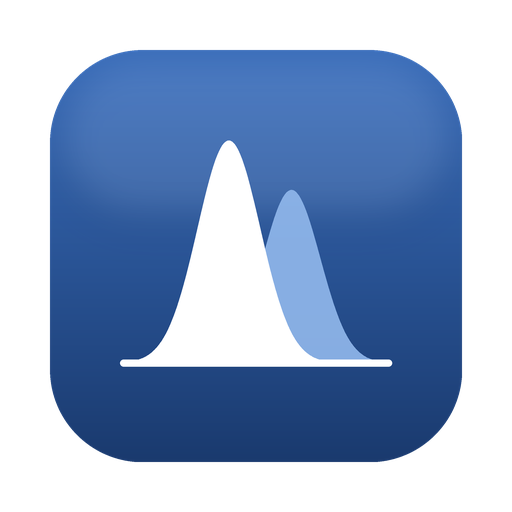
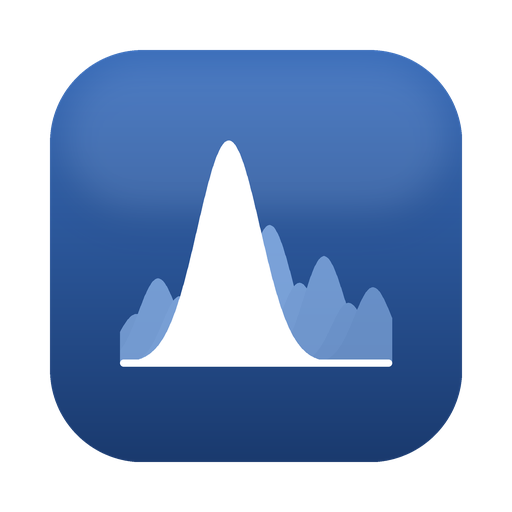
Two marks for the suite: the chromatogram behind the peak for OpenDIAL, the two peaks for OpenQuant
The icon generator draws either variant and exports every form of one — PNGs by size, the macOS
iconset and .icns, the Windows .ico, an SVG of the same geometry. OpenDIAL's mark becomes the
untargeted one: the same rounded square, gradient, white peak and baseline, with a skyline of
smaller peaks behind, the whole run rather than one analyte. The two co-eluting peaks, the
deconvolution of a known compound, go to OpenQuant.

Changed region(s): [[0.5, 0.375, 0.7812, 0.7188], [0.2188, 0.5312, 0.375, 0.7188]]

diff --git a/opendial/tools/make_icon.py b/opendial/tools/make_icon.py
@@ -1,15 +1,25 @@
 #!/usr/bin/env python3
-"""Draws the OpenDIAL application icon (macOS .icns / PNG) from the OpenQuant palette.
+"""Draws the suite's application icons (PNG, macOS .iconset/.icns, Windows .ico, SVG).
 
-The mark is two co-eluting chromatographic peaks, the rear one showing through the front
-one: the deconvolution that gives OpenDIAL its name. Colours are the shared suite tokens
-(accent #234b8c, light accent #6f9be0).
+Two marks share one identity — the rounded square, the blue gradient, the white chromatographic
+peak on a baseline — and differ in what stands behind the peak:
 
-    python3 tools/make_icon.py --out docs/images/icon.png [--size 1024]
+  targeted     one co-eluting peak showing through the front one: the deconvolution of a known
+               analyte. OpenQuant's mark, and OpenDIAL's original.
+  untargeted   a whole chromatogram behind the front peak, a skyline of smaller peaks across the
+               baseline: everything the run contains, not one thing looked for. OpenDIAL's mark.
+
+    python3 tools/make_icon.py --out icon.png [--size 1024] [--variant untargeted|targeted]
+    python3 tools/make_icon.py --export DIR --variant targeted     # every size, .iconset, .icns, .ico, .svg
+
+Colours are the shared suite tokens (accent #234b8c, light accent #6f9be0).
 """
 import argparse
 import math
 import os
+import shutil
+import subprocess
+import sys
 
 from PIL import Image, ImageDraw, ImageFilter
 
@@ -20,28 +30,51 @@ WHITE = (255, 255, 255)
 
 SS = 4  # supersampling factor
 
+# the skyline of the untargeted mark: (position along the span, height as a share of the front
+# peak's, width as a share of the front peak's sigma), left to right — a real-looking chromatogram
+# with the front peak standing out of it, and nothing taller than the front peak
+SKYLINE = [
+    (0.06, 0.22, 0.55), (0.14, 0.38, 0.62), (0.22, 0.30, 0.55), (0.30, 0.52, 0.65),
+    (0.55, 0.62, 0.72), (0.66, 0.36, 0.60), (0.75, 0.48, 0.65), (0.84, 0.27, 0.55), (0.93, 0.34, 0.60),
+]
+FRONT_AT = 0.40   # where the front peak stands, as a share of the span
+
+
+def gaussian_points(cx, sigma, height, baseline, left, right, steps=512):
+    pts = []
+    for i in range(steps + 1):
+        x = left + (right - left) * i / steps
+        y = baseline - height * math.exp(-((x - cx) ** 2) / (2.0 * sigma ** 2))
+        pts.append((x, y))
+    return pts
+
 
 def gaussian_band(draw, cx, sigma, height, baseline, left, right, colour, alpha):
     """Fills a gaussian peak between `left` and `right` on the given baseline."""
-    pts = []
-    step = max(1, (right - left) // 512)
-    for x in range(int(left), int(right) + 1, step):
-        y = baseline - height * math.exp(-((x - cx) ** 2) / (2.0 * sigma ** 2))
-        pts.append((x, y))
+    pts = gaussian_points(cx, sigma, height, baseline, left, right)
     pts.append((right, baseline))
     pts.append((left, baseline))
     draw.polygon(pts, fill=colour + (alpha,))
 
 
-def render(size: int) -> Image.Image:
-    s = size * SS
-    img = Image.new("RGBA", (s, s), (0, 0, 0, 0))
-
-    # macOS icon grid: the rounded square covers ~80 % of the canvas, centred.
+def geometry(s):
+    """The squircle and the mark's frame for a canvas of `s` pixels."""
     margin = int(s * 0.098)
     box = (margin, margin, s - margin, s - margin)
     side = box[2] - box[0]
     radius = int(side * 0.225)
+    left = box[0] + int(side * 0.17)
+    right = box[2] - int(side * 0.17)
+    baseline = box[1] + int(side * 0.76)
+    span = right - left
+    sigma = span * 0.115
+    return box, side, radius, left, right, baseline, span, sigma
+
+
+def render(size: int, variant: str = "untargeted") -> Image.Image:
+    s = size * SS
+    img = Image.new("RGBA", (s, s), (0, 0, 0, 0))
+    box, side, radius, left, right, baseline, span, sigma = geometry(s)
 
     # vertical gradient inside the squircle
     grad = Image.new("RGBA", (1, side), (0, 0, 0, 0))
@@ -68,18 +101,20 @@ def render(size: int) -> Image.Image:
     hi = hi.filter(ImageFilter.GaussianBlur(side * 0.05))
     img.alpha_composite(Image.composite(hi, Image.new("RGBA", (s, s), (0, 0, 0, 0)), mask))
 
-    # ---- the mark: two overlapping chromatographic peaks -------------------------------
+    # ---- the mark ------------------------------------------------------------------------
     art = Image.new("RGBA", (s, s), (0, 0, 0, 0))
     d = ImageDraw.Draw(art)
-    left = box[0] + int(side * 0.17)
-    right = box[2] - int(side * 0.17)
-    baseline = box[1] + int(side * 0.76)
-    span = right - left
-    sigma = span * 0.115
-
-    # rear (co-eluting) peak, then the front peak drawn over it
-    gaussian_band(d, left + span * 0.63, sigma * 0.92, side * 0.42, baseline, left, right, REAR_PEAK, 235)
-    gaussian_band(d, left + span * 0.40, sigma, side * 0.54, baseline, left, right, WHITE, 255)
+    front_height = side * 0.54
+    if variant == "targeted":
+        # the rear (co-eluting) peak, then the front peak drawn over it
+        gaussian_band(d, left + span * 0.63, sigma * 0.92, side * 0.42, baseline, left, right, REAR_PEAK, 235)
+    else:
+        # the skyline: every smaller peak of the run, faint towards the edges, the front peak's
+        # neighbours a little stronger so the whole reads as one chromatogram
+        for at, h, w in SKYLINE:
+            alpha = 150 + int(70 * (1 - abs(at - FRONT_AT) / 0.6))
+            gaussian_band(d, left + span * at, sigma * w, front_height * h, baseline, left, right, REAR_PEAK, max(120, min(235, alpha)))
+    gaussian_band(d, left + span * FRONT_AT, sigma, front_height, baseline, left, right, WHITE, 255)
 
     # baseline rule
     rule = max(2, int(side * 0.018))
@@ -90,14 +125,85 @@ def render(size: int) -> Image.Image:
     return img.resize((size, size), Image.LANCZOS)
 
 
+def svg(variant: str, size: int = 1024) -> str:
+    """The same mark as vector art: the gradient squircle, the peaks as paths, the baseline."""
+    box, side, radius, left, right, baseline, span, sigma = geometry(size)
+    front_height = side * 0.54
+
+    def path(cx, sg, h):
+        pts = gaussian_points(cx, sg, h, baseline, left, right, steps=160)
+        d = "M %.1f %.1f " % (left, baseline) + " ".join("L %.1f %.1f" % p for p in pts) + " L %.1f %.1f Z" % (right, baseline)
+        return d
+
+    rear = "#8fb6ea"
+    parts = [
+        '<svg xmlns="http://www.w3.org/2000/svg" viewBox="0 0 %d %d" width="%d" height="%d">' % (size, size, size, size),
+        "<defs>",
+        '<linearGradient id="g" x1="0" y1="0" x2="0" y2="1"><stop offset="0" stop-color="#3a6fbf"/><stop offset="1" stop-color="#1a3a6e"/></linearGradient>',
+        '<linearGradient id="hi" x1="0" y1="0" x2="0" y2="1"><stop offset="0" stop-color="#ffffff" stop-opacity="0.12"/><stop offset="1" stop-color="#ffffff" stop-opacity="0"/></linearGradient>',
+        '<clipPath id="c"><rect x="%d" y="%d" width="%d" height="%d" rx="%d"/></clipPath>' % (box[0], box[1], side, side, radius),
+        "</defs>",
+        '<rect x="%d" y="%d" width="%d" height="%d" rx="%d" fill="url(#g)"/>' % (box[0], box[1], side, side, radius),
+        '<rect x="%d" y="%d" width="%d" height="%d" rx="%d" fill="url(#hi)"/>' % (box[0], box[1], side, int(side * 0.5), radius),
+        '<g clip-path="url(#c)">',
+    ]
+    if variant == "targeted":
+        parts.append('<path d="%s" fill="%s" fill-opacity="0.92"/>' % (path(left + span * 0.63, sigma * 0.92, side * 0.42), rear))
+    else:
+        for at, h, w in SKYLINE:
+            alpha = 150 + int(70 * (1 - abs(at - FRONT_AT) / 0.6))
+            parts.append('<path d="%s" fill="%s" fill-opacity="%.2f"/>' % (path(left + span * at, sigma * w, front_height * h), rear, max(120, min(235, alpha)) / 255))
+    parts.append('<path d="%s" fill="#ffffff"/>' % path(left + span * FRONT_AT, sigma, front_height))
+    rule = max(2, int(side * 0.018))
+    parts.append('<rect x="%d" y="%.1f" width="%d" height="%d" rx="%.1f" fill="#ffffff"/>' % (left, baseline - rule / 2, right - left, rule, rule / 2))
+    parts.append("</g></svg>")
+    return "\n".join(parts)
+
+
+ICONSET = [(16, "16x16"), (32, "16x16@2x"), (32, "32x32"), (64, "32x32@2x"), (128, "128x128"), (256, "128x128@2x"),
+           (256, "256x256"), (512, "256x256@2x"), (512, "512x512"), (1024, "512x512@2x")]
+PNG_SIZES = [16, 32, 48, 64, 128, 256, 512, 1024]
+
+
+def export(folder: str, variant: str, name: str):
+    """Every form of one mark: PNGs by size, the macOS iconset and .icns, the Windows .ico, the SVG."""
+    os.makedirs(folder, exist_ok=True)
+    master = render(1024, variant)
+    png_dir = os.path.join(folder, "png")
+    os.makedirs(png_dir, exist_ok=True)
+    for size in PNG_SIZES:
+        (master if size == 1024 else master.resize((size, size), Image.LANCZOS)).save(os.path.join(png_dir, f"{name}-{size}.png"))
+    iconset = os.path.join(folder, f"{name}.iconset")
+    shutil.rmtree(iconset, ignore_errors=True)
+    os.makedirs(iconset)
+    for size, label in ICONSET:
+        (master if size == 1024 else master.resize((size, size), Image.LANCZOS)).save(os.path.join(iconset, f"icon_{label}.png"))
+    icns = os.path.join(folder, f"{name}.icns")
+    if shutil.which("iconutil"):
+        subprocess.run(["iconutil", "--convert", "icns", iconset, "--output", icns], check=True)
+    master.save(os.path.join(folder, f"{name}.ico"), sizes=[(16, 16), (32, 32), (48, 48), (64, 64), (128, 128), (256, 256)])
+    with open(os.path.join(folder, f"{name}.svg"), "w", encoding="utf-8") as handle:
+        handle.write(svg(variant))
+    print(f"[icon] {variant} -> {folder}: {len(PNG_SIZES)} PNGs, {name}.iconset, {name}.icns, {name}.ico, {name}.svg")
+
+
 def main():
     ap = argparse.ArgumentParser()
-    ap.add_argument("--out", required=True)
+    ap.add_argument("--out", help="one PNG")
     ap.add_argument("--size", type=int, default=1024)
+    ap.add_argument("--variant", choices=["targeted", "untargeted"], default="untargeted")
+    ap.add_argument("--export", metavar="DIR", help="every form of the mark into DIR")
+    ap.add_argument("--name", help="file stem for --export (default: the variant's app)")
     a = ap.parse_args()
-    os.makedirs(os.path.dirname(os.path.abspath(a.out)), exist_ok=True)
-    render(a.size).save(a.out)
-    print(f"[icon] {a.out} ({a.size}x{a.size})")
+    if a.export:
+        export(a.export, a.variant, a.name or ("OpenQuant" if a.variant == "targeted" else "OpenDIAL"))
+    if a.out:
+        os.makedirs(os.path.dirname(os.path.abspath(a.out)), exist_ok=True)
+        render(a.size, a.variant).save(a.out)
+        print(f"[icon] {a.out} ({a.size}x{a.size}, {a.variant})")
+    if not a.export and not a.out:
+        ap.error("give --out or --export")
+        sys.exit(2)
 
 
 if __name__ == "__main__":

diff --git a/opendial/docs/manual/versions.md b/opendial/docs/manual/versions.md
@@ -20,6 +20,7 @@ The current version. It tracks MS-DIAL 5.5.260817.
 - The reaction weights are compared as BioPAN compares them — the ratios themselves, not their logs — and the thresholds are BioPAN's, one-sided: 1.282, 1.645 (default), 2.054, 2.326.
 - Every gene in the table is the human symbol; BioPAN's mouse `Scd1` and `Scd3` are `SCD` and `SCD5`.
 - **Paired** on the Pathways page: BioPAN's paired comparison, the injections of the two classes taken one to one in order.
+- A new mark for OpenDIAL: the same rounded square, gradient and white peak, with the whole chromatogram behind the peak instead of one co-eluting neighbour — the untargeted run, everything it contains. The two-peak mark, the deconvolution of one analyte, goes to OpenQuant. `tools/make_icon.py --export` writes either as PNGs, an `.iconset`, an `.icns`, an `.ico` and an SVG.
 - A chart's legend goes to the corner with the least under it, so the volcano plot's named corner stays readable; the heatmap's value name sits under the colour bar instead of across its numbers.
 - The species level follows BioPAN's rule for the chain reactions: a step that releases a chain is drawn only when that fatty acid is measured, one that adds a chain only when its acyl-CoA is. The fatty-acid level is the free fatty acids measured, as BioPAN's is, not the chains of the other lipids.
 - The design notes say where the two agree (the pathway score is the same number) and where they do not (the species-level chain rule, the extensions).

diff --git a/opendial/README.md b/opendial/README.md
@@ -36,7 +36,9 @@ bash opendial/scripts/make-app-bundle.sh # -> opendial/dist/OpenDIAL.app (double
 
 ## Installing the desktop application on macOS
 
-`scripts/make-app-bundle.sh` publishes the application, draws the icon (`tools/make_icon.py`) and
+`scripts/make-app-bundle.sh` publishes the application, draws the icon (`tools/make_icon.py`; the
+untargeted mark, a chromatogram behind the peak — `--variant targeted` is OpenQuant's two peaks, and
+`--export DIR` writes every size, `.icns`, `.ico` and SVG) and
 assembles `dist/OpenDIAL.app` — self-contained, with the SCIEX plugin, ad-hoc signed so Apple
 Silicon will run it. Install it with `ditto dist/OpenDIAL.app /Applications/OpenDIAL.app`, which
 keeps the signature intact. A locally built bundle carries no quarantine flag, so it launches
